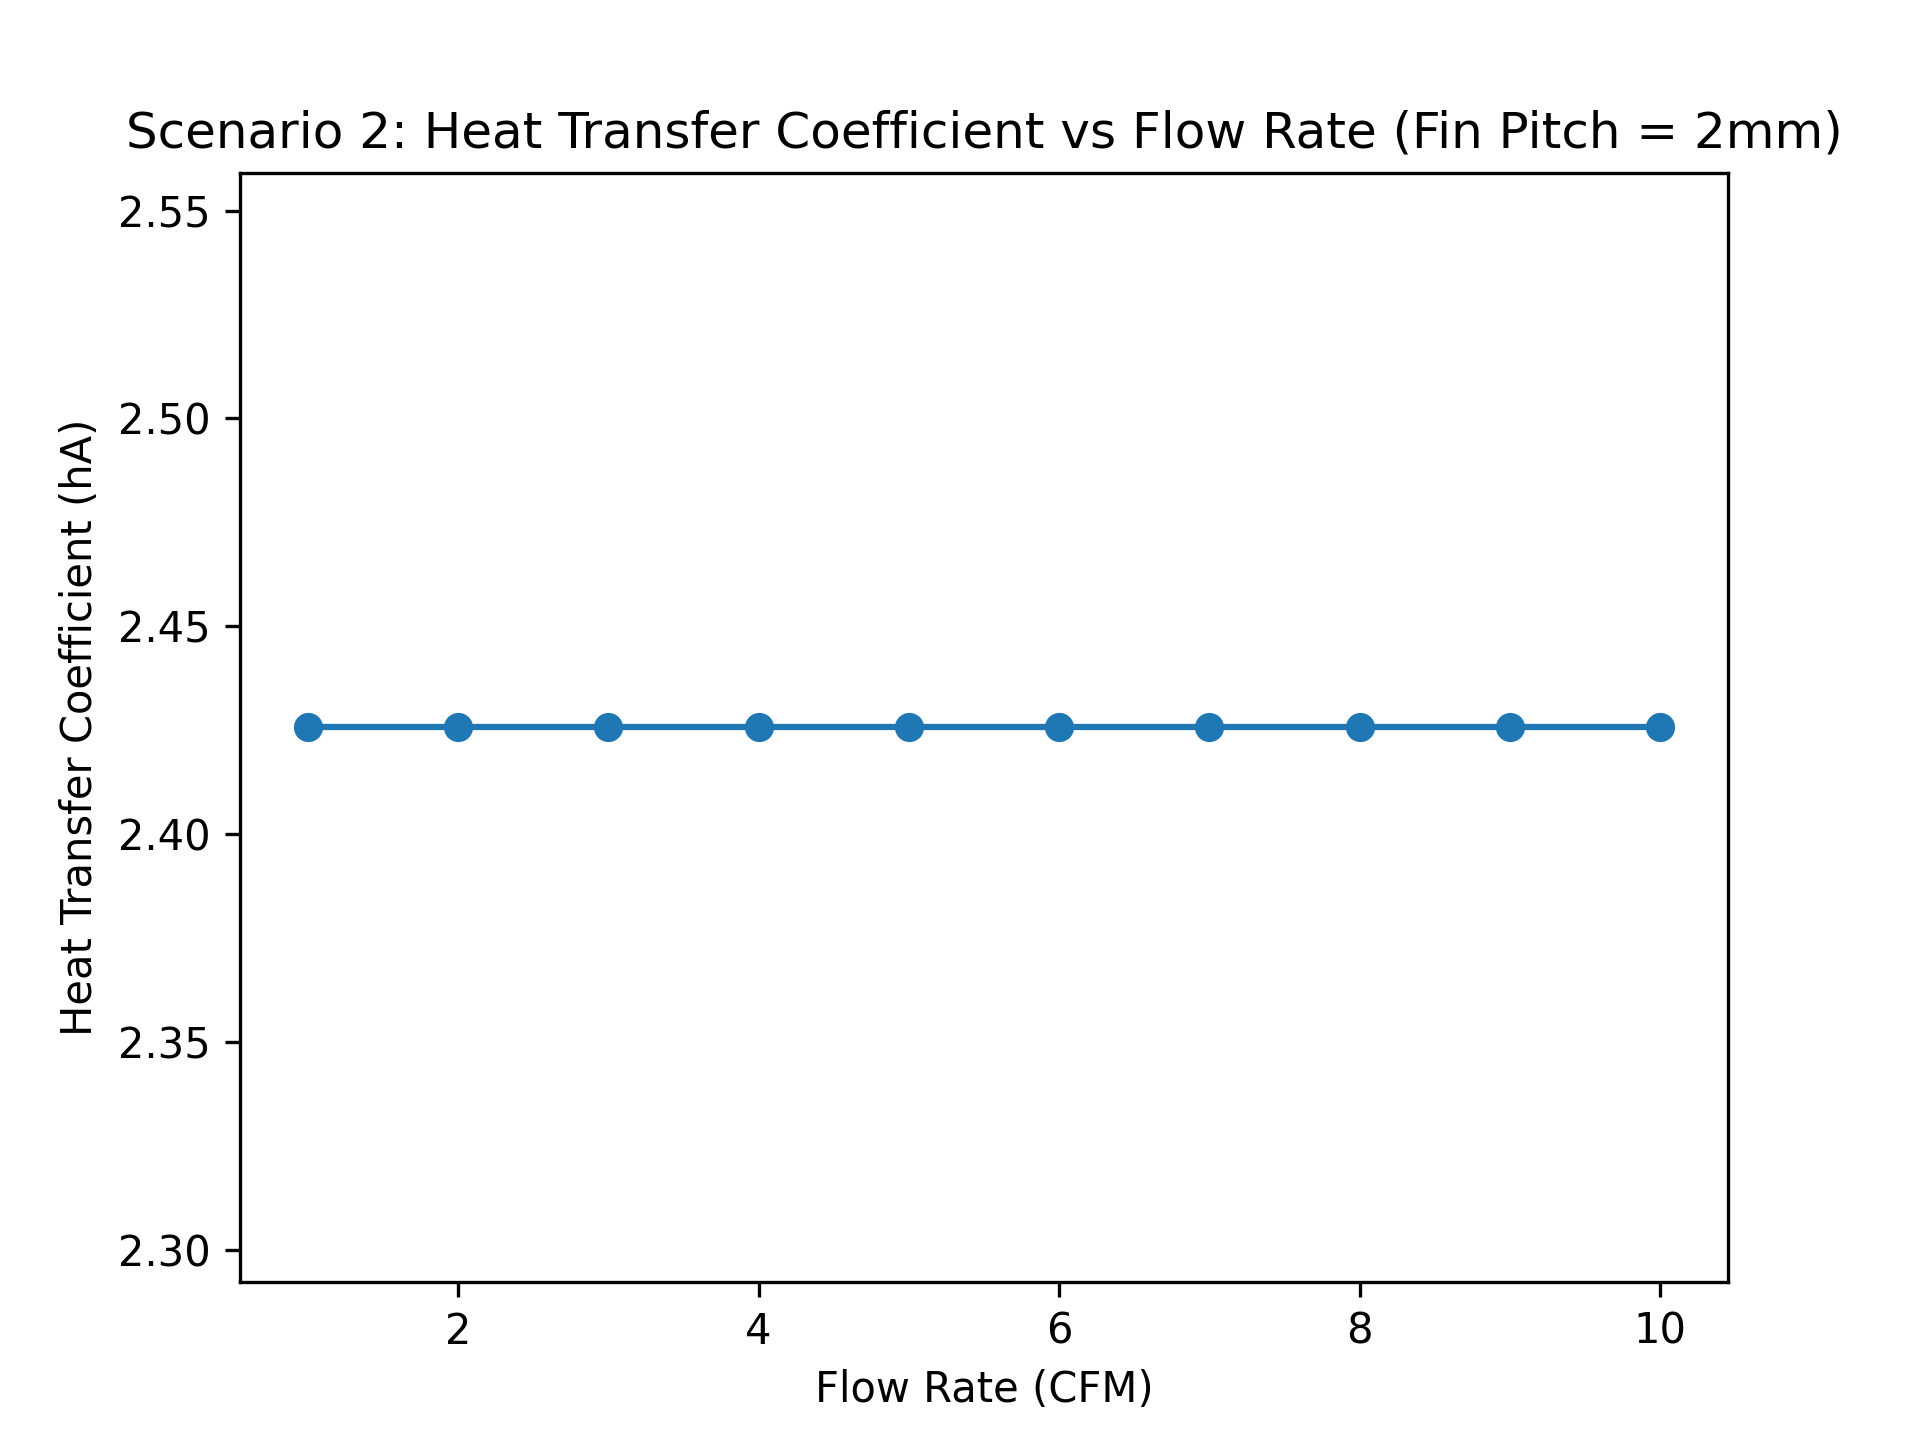
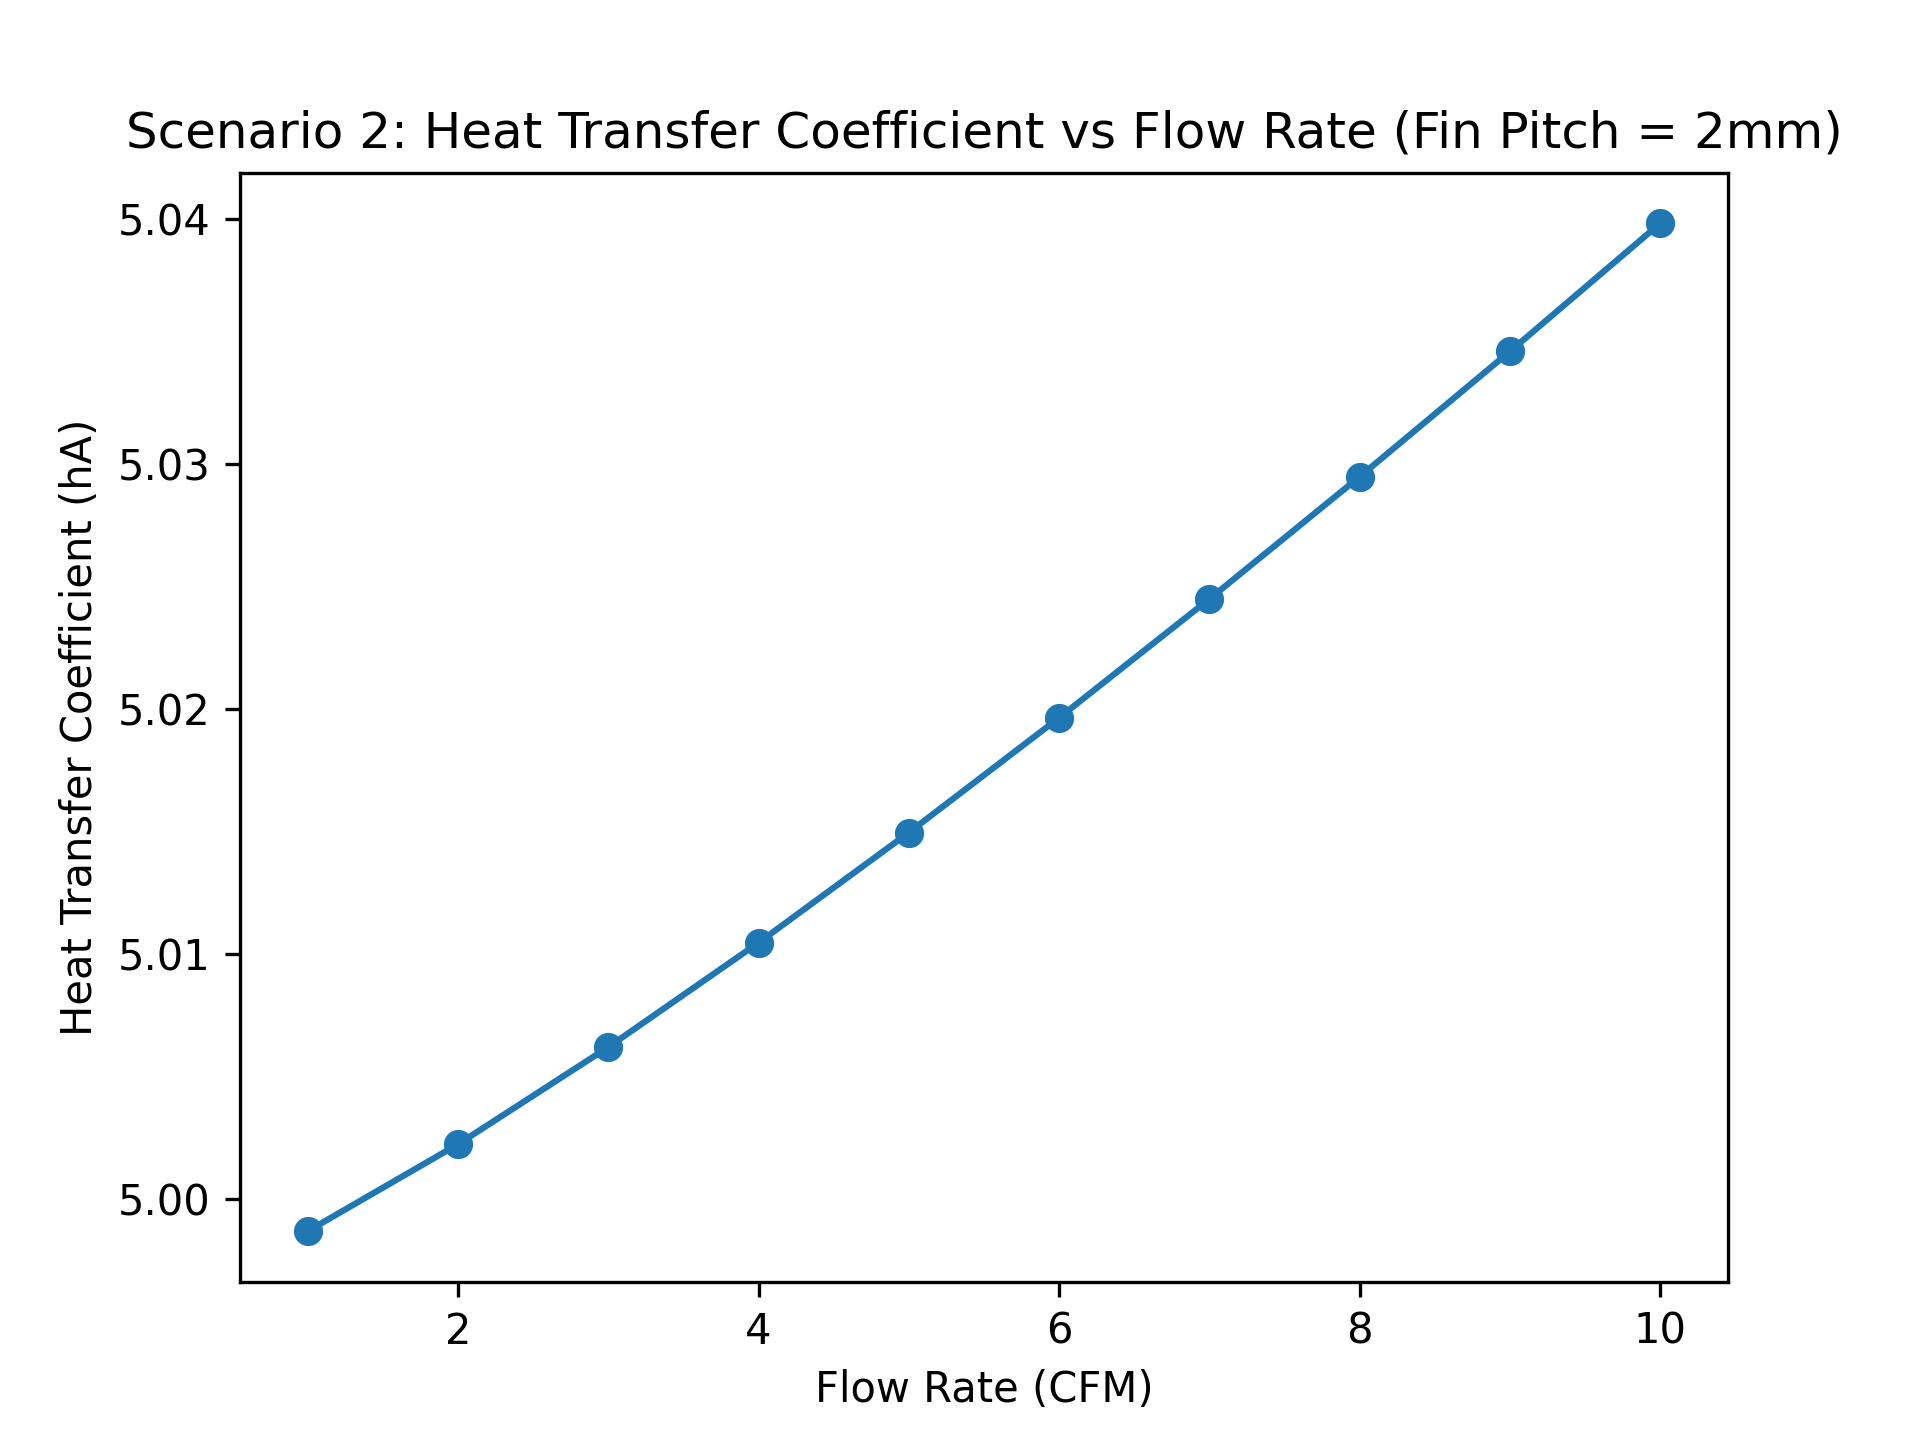
Nusselt Number changes

diff --git a/Homework_2.py b/Homework_2.py
@@ -14,7 +14,7 @@ mu = 0.0001 # [Pa*s = kg/ms]
 k_air = 0.02 # thermal conductivity, [W/mk]
 prandtl = 0.7 # Prandtl Number = viscous diffusion rate / thermal diffusion rate
 sp_heat = 1000 # specific heat, [J/kgK], amount of energy required to raise temperature of 1kg of fluid by 1K
-# Nusselt # is the convective heat transfer / conductive heat transfer
+const_A = 0.40377 # Numeric Value for Coefficient A for constant wall temperature
 
 # Changes in some scenarios
 flow_def = 5 # Default Flow Rate [cfm]
@@ -26,17 +26,16 @@ Q_heater = 50 # [W]
 T_amb = 25 # [degC], baseline ambient temperature for scenario 3
 
 
-def calculate_Nu(Re):
-    if Re < 2300:
-        return 3.66
-    else:
-        return 0.023 * (Re ** 0.8) * (prandtl ** 0.4)
+def calculate_Nu(Dh, Re, f):
+    Gz = (Dh*Re*prandtl)/length # Graetz Number
+    Nu_L_Lev = const_A * ((f*Re*Gz)**(1/3))
+    Nu_inf = 7.541 # fully developed transport constant for flow between parallel plates with constant wall temperature
+    n = (Nu_inf + 45.5)/14.5
+    O_lev = (Nu_inf - 7.16)/5
+    Nu = ((((Nu_L_Lev)**n) + (Nu_inf - O_lev)**n)**(1/n)) + O_lev
 
-def friction_factor(Re):
-    if Re < 2300:
-        return 96/Re
-    else:
-        return 0.3164 * (Re ** -0.25) # Blasius - empirical correlation for turbulent flow in smooth pipes
+    return Nu
+
 
 def pressure_drop(f, rho, vel, Dh):
     return f * length / Dh * rho * (vel ** 2) * 0.5
@@ -55,15 +54,15 @@ def compute_results(pitch, flow):
     # print ('Gap: ', gap)
     # print ('Number of chan: ', n_chan)
     Re = rho * vel * Dh / mu
-    print (f'Pitch: {pitch}, Gap: {gap}, Num Chan: {n_chan}, Num Fins: {n_fins}, Re: {Re}')
-    Nu = calculate_Nu(Re)
+    # print (f'Pitch: {pitch}, Gap: {gap}, Num Chan: {n_chan}, Num Fins: {n_fins}, Re: {Re}')
+    f = 96/Re # Darcy Friction Factor for parallel plates
+    Nu = calculate_Nu(Dh, Re, f)
     h = Nu * k_air / Dh # Calculates the convective heat transfer coefficient
-    fin_area = n_fins * 2 * height * length # Surface area per fin = height * length * 2 (2 sides). For all fins
-    base_area = length * width # Surface area of heat sink base
-    A_total = fin_area + base_area
+    fin_area = (n_fins-1) * 2 * height * length # Surface area per fin = height * length * 2 (2 sides). Outside surface of outside fins do not have the same HT
+    base_area = length * (gap*n_chan) # Surface area of heat sink base
+    A_total = fin_area + (2*base_area) # Inside of Top and Bottom Surfaces also considered
     hA = h * A_total
 
-    f = friction_factor(Re)
     delta_p = f * length / Dh * rho * (vel ** 2) * 0.5 # Darcy - Weisbach for major losses, no minor losses
     fan_power = delta_p * flow # Is this needed?
 
@@ -157,7 +156,7 @@ def scenario_2():
     plt.plot(flow_range, Nu_all, marker='o')
     plt.xlabel('Flow Rate (CFM)')
     plt.ylabel('Average Nusselt number per fin')
-    plt.title('Scenario 2: Average Nusselt Number vs Flow Rate (Fin Pitch = )')
+    plt.title('Scenario 2: Average Nusselt Number vs Flow Rate (Fin Pitch = 2mm)')
     plt.savefig('a2_s2_Nu_vs_flow_rate.png', dpi=300)
     plt.close()
 
